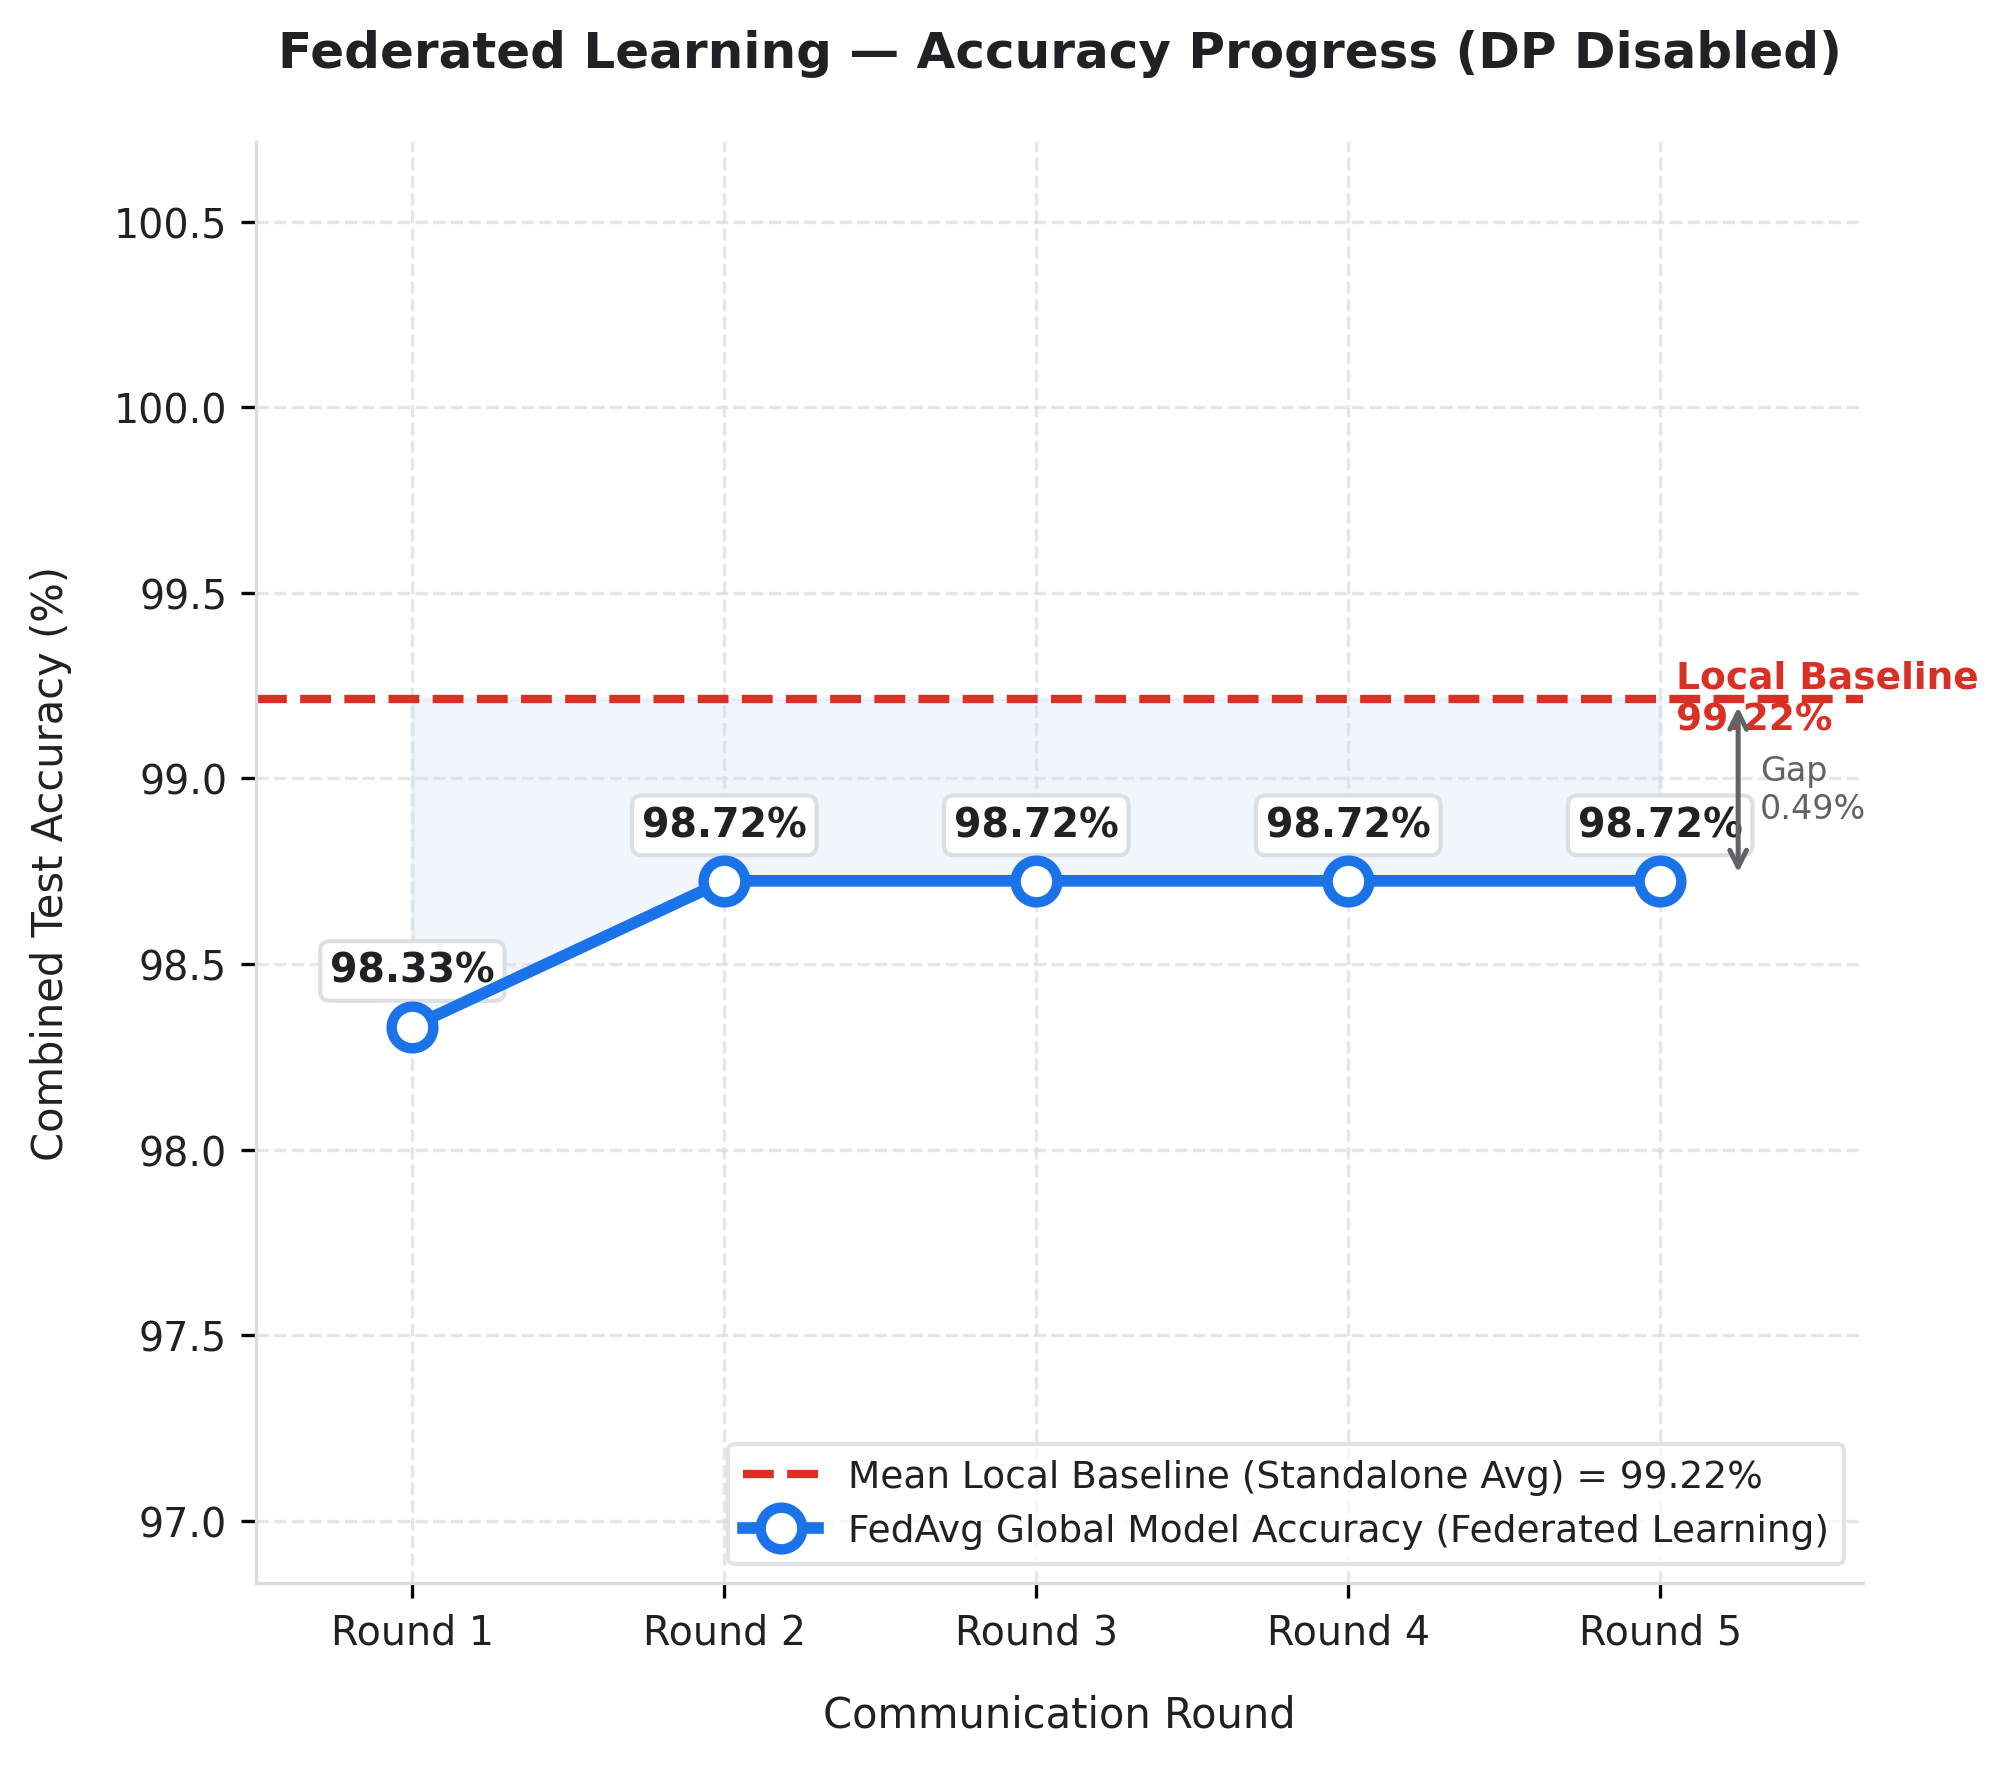
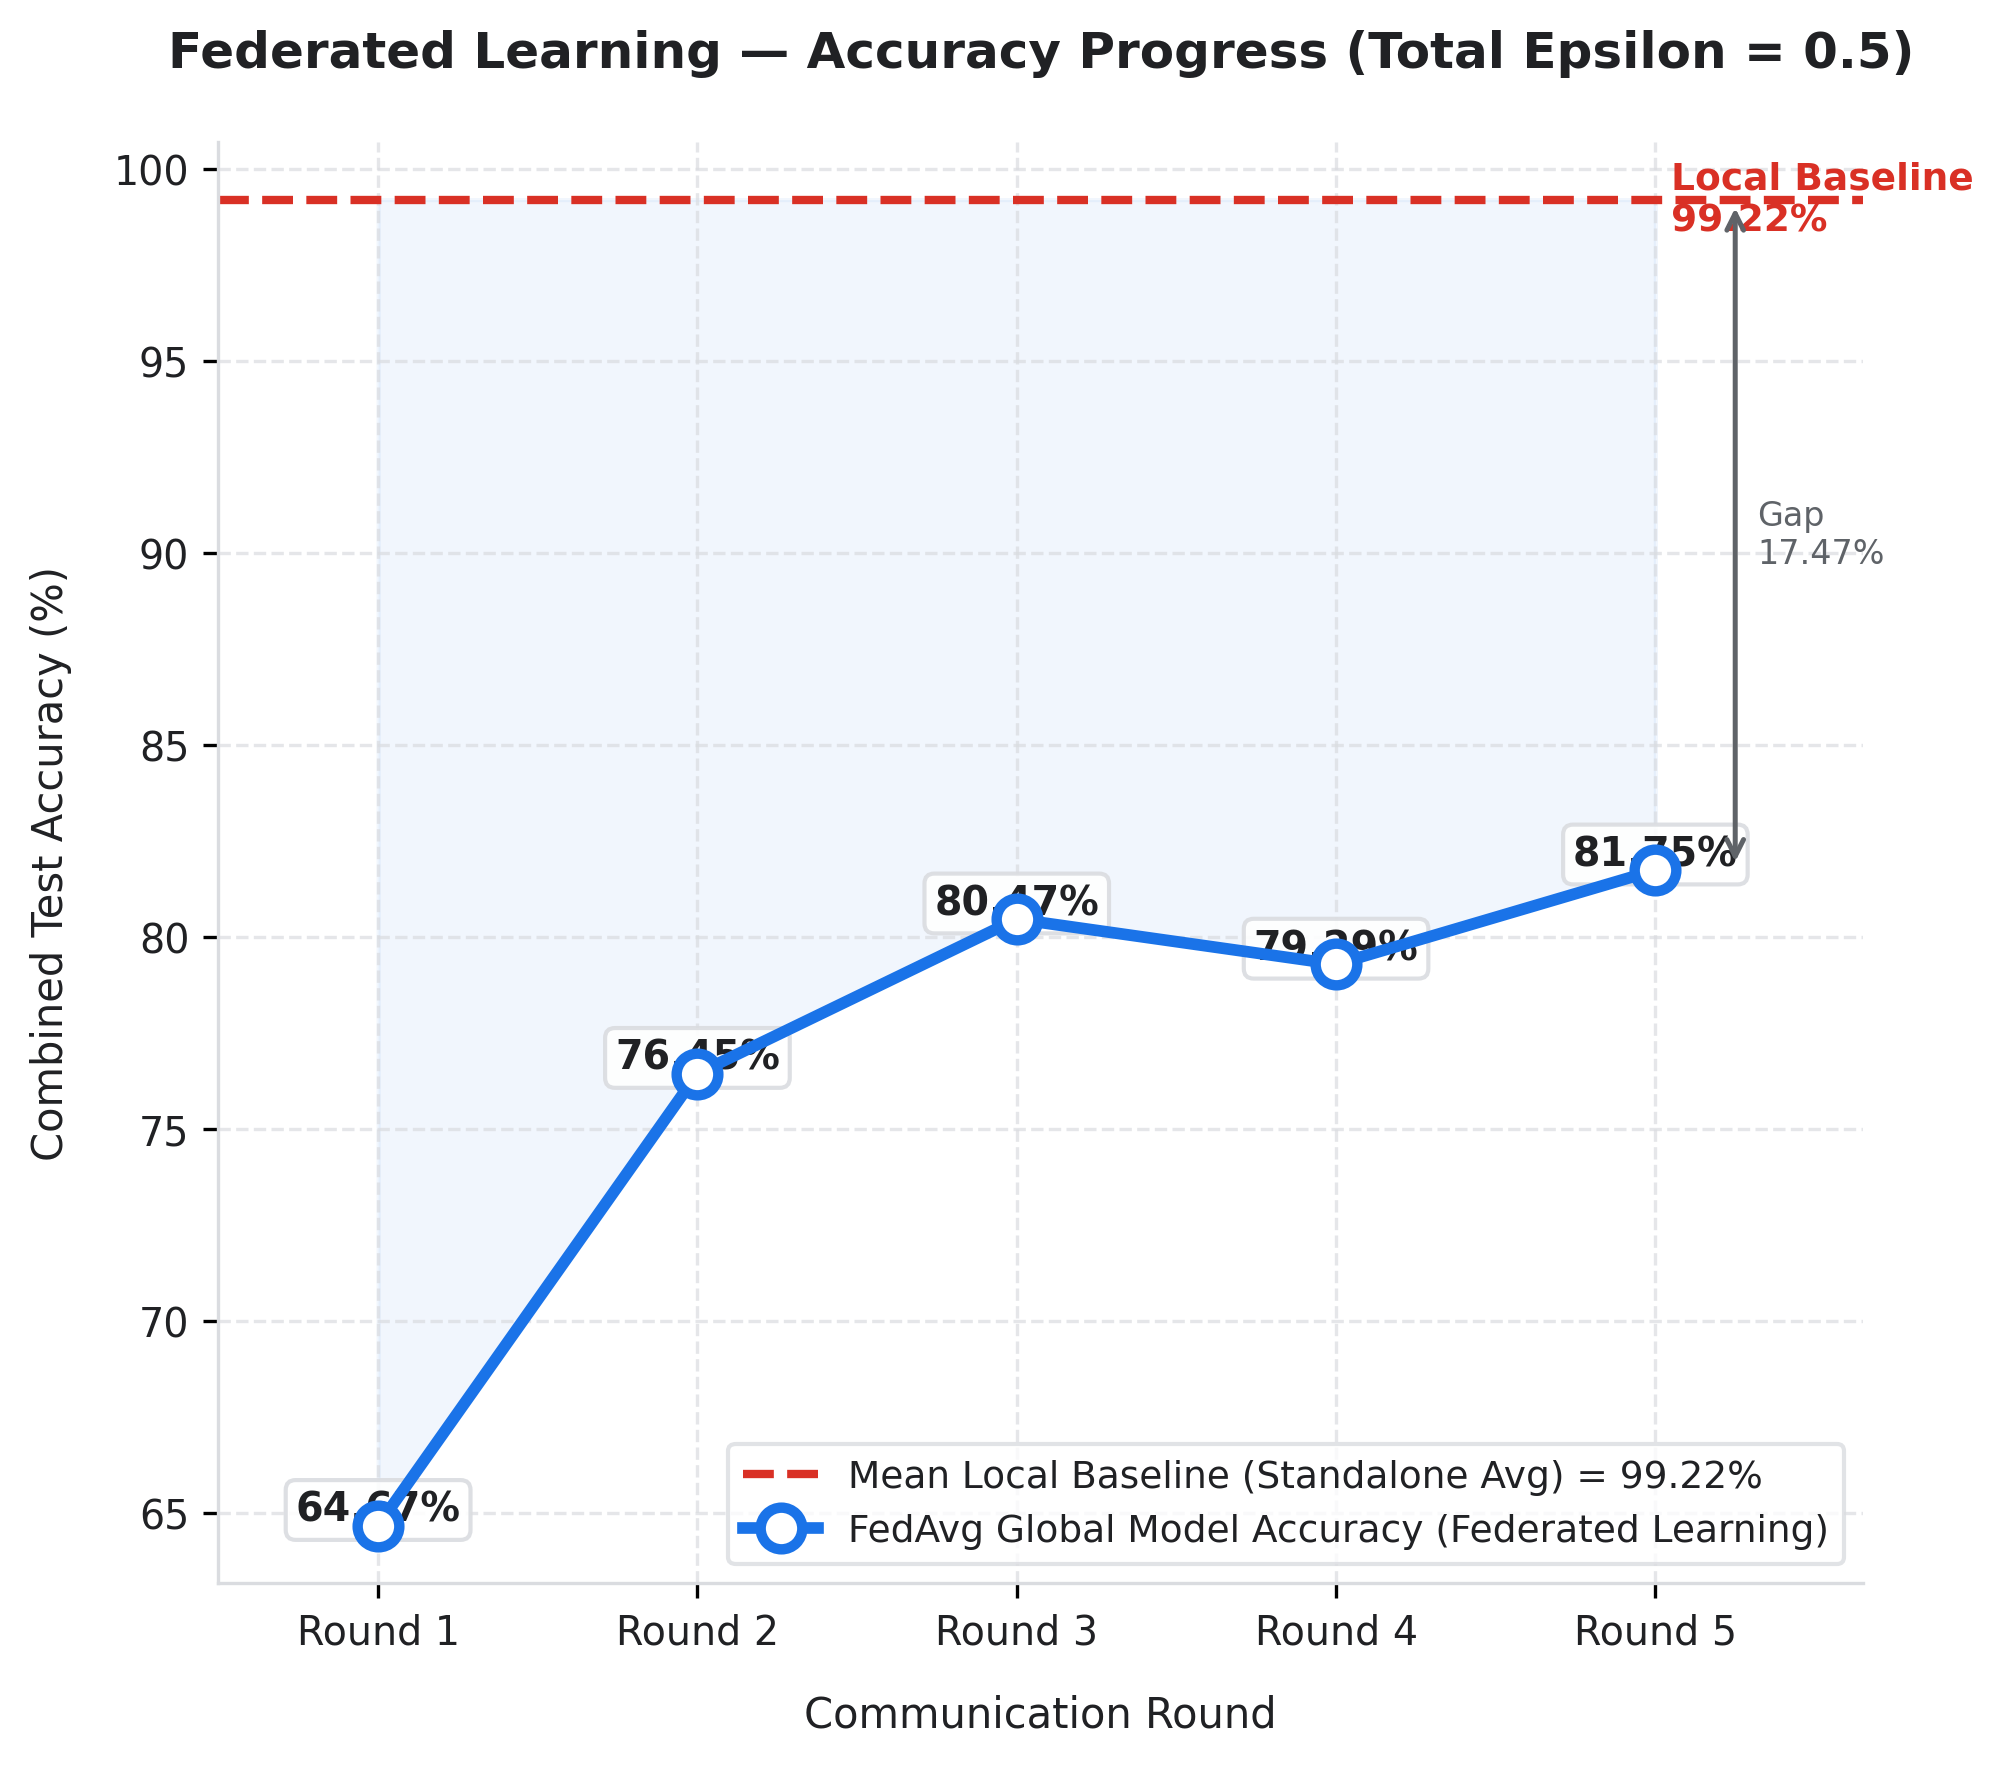
Set output perturbation (weight-level DP) as the default DP mode across all scripts for optimal out-of-the-box utility

diff --git a/server.py b/server.py
@@ -45,7 +45,7 @@ parser = argparse.ArgumentParser(description="Federated Learning + Differential 
 parser.add_argument("--no-dp", action="store_true", help="Run without Differential Privacy (no noise added)")
 parser.add_argument("-e", "--epsilon", type=float, default=None, help="Privacy Budget (Epsilon / ε) to use directly without prompting")
 parser.add_argument("--dp-clients", type=str, default="1,2,3", help="Comma-separated list of machine numbers to apply DP (e.g. 1 or 1,2)")
-parser.add_argument("--dp-mode", type=str, choices=["input", "output"], default="input", help="DP Perturbation stage: 'input' (raw features) or 'output' (model weights)")
+parser.add_argument("--dp-mode", type=str, choices=["input", "output"], default="output", help="DP Perturbation stage: 'input' (raw features) or 'output' (model weights)")
 args, unknown = parser.parse_known_args()
 
 use_dp = not args.no_dp

diff --git a/machine1.py b/machine1.py
@@ -218,7 +218,7 @@ if __name__ == "__main__":
     parser = argparse.ArgumentParser(description="Standalone Client Model with Differential Privacy")
     parser.add_argument("--no-dp", action="store_true", help="Run without Differential Privacy")
     parser.add_argument("-e", "--epsilon", type=float, default=0.5, help="Privacy Budget (Epsilon) [default: 0.5]")
-    parser.add_argument("--dp-mode", type=str, choices=["input", "output"], default="input", help="DP Perturbation stage: 'input' or 'output'")
+    parser.add_argument("--dp-mode", type=str, choices=["input", "output"], default="output", help="DP Perturbation stage: 'input' or 'output'")
     args = parser.parse_args()
     
     if not args.no_dp and args.epsilon <= 0:

diff --git a/machine2.py b/machine2.py
@@ -218,7 +218,7 @@ if __name__ == "__main__":
     parser = argparse.ArgumentParser(description="Standalone Client Model with Differential Privacy")
     parser.add_argument("--no-dp", action="store_true", help="Run without Differential Privacy")
     parser.add_argument("-e", "--epsilon", type=float, default=0.5, help="Privacy Budget (Epsilon) [default: 0.5]")
-    parser.add_argument("--dp-mode", type=str, choices=["input", "output"], default="input", help="DP Perturbation stage: 'input' or 'output'")
+    parser.add_argument("--dp-mode", type=str, choices=["input", "output"], default="output", help="DP Perturbation stage: 'input' or 'output'")
     args = parser.parse_args()
     
     if not args.no_dp and args.epsilon <= 0:

diff --git a/machine3.py b/machine3.py
@@ -218,7 +218,7 @@ if __name__ == "__main__":
     parser = argparse.ArgumentParser(description="Standalone Client Model with Differential Privacy")
     parser.add_argument("--no-dp", action="store_true", help="Run without Differential Privacy")
     parser.add_argument("-e", "--epsilon", type=float, default=0.5, help="Privacy Budget (Epsilon) [default: 0.5]")
-    parser.add_argument("--dp-mode", type=str, choices=["input", "output"], default="input", help="DP Perturbation stage: 'input' or 'output'")
+    parser.add_argument("--dp-mode", type=str, choices=["input", "output"], default="output", help="DP Perturbation stage: 'input' or 'output'")
     args = parser.parse_args()
     
     if not args.no_dp and args.epsilon <= 0:

diff --git a/machine.py b/machine.py
@@ -21,7 +21,7 @@ def main():
     parser = argparse.ArgumentParser(description="Standalone Client Evaluation")
     parser.add_argument("--no-dp", action="store_true", help="Run without Differential Privacy")
     parser.add_argument("-e", "--epsilon", type=float, default=None, help="Privacy Budget (Epsilon)")
-    parser.add_argument("--dp-mode", type=str, choices=["input", "output"], default="input", help="DP Perturbation stage: 'input' or 'output'")
+    parser.add_argument("--dp-mode", type=str, choices=["input", "output"], default="output", help="DP Perturbation stage: 'input' or 'output'")
     args, unknown = parser.parse_known_args()
 
     use_dp = not args.no_dp
